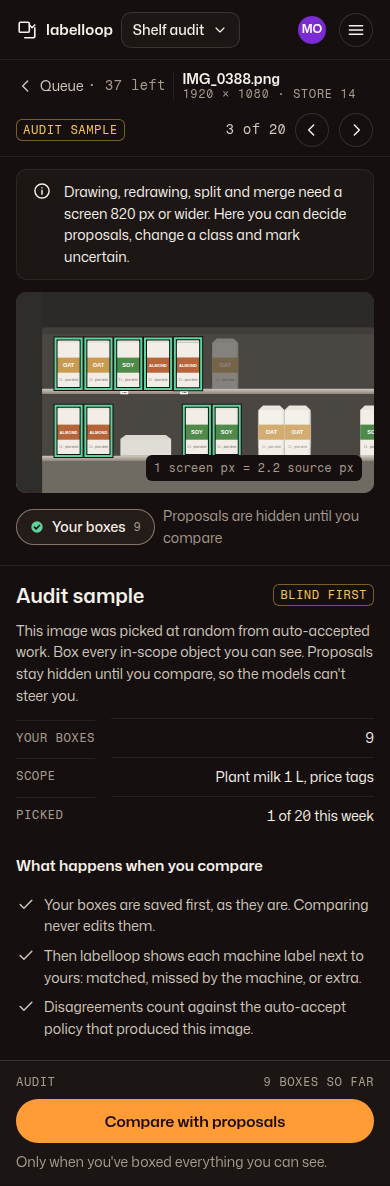
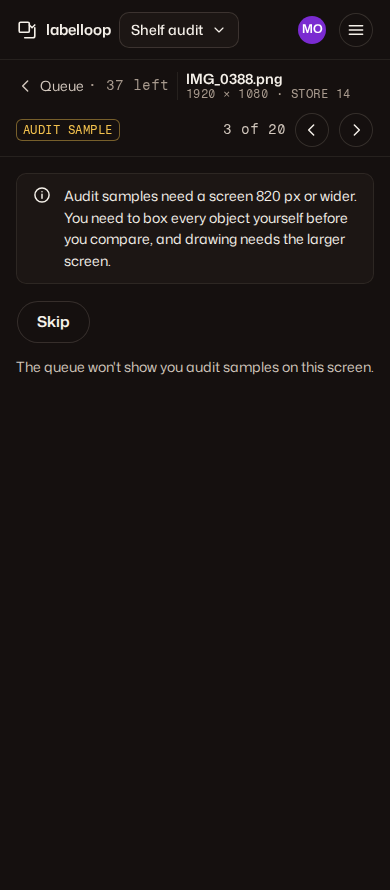
docs(design): estimate wording, audit below 820 px, paused header
- J20 on Runs and the Costs policy copy name the estimate, never a cap,
  and say which limits are enforced (plan §12.1).
- Audit samples are never served below 820 px; R3 at 390 shows the
  notice and Skip only (spec §3, §7, check 6).
- J1 paused variant ("Paid steps paused") on the Costs mockup.
- Reviewed box tabs show the check glyph, not a dot.
- fetch-fonts.sh is executable.

diff --git a/docs/design/mockups/src/workbench.css b/docs/design/mockups/src/workbench.css
@@ -337,6 +337,15 @@ nav.sections .count {
 .spend .meter {
   width: 48px;
 }
+/* J1 paused variant: replaces the meter on every page while paid steps are paused. */
+.spend.paused {
+  color: var(--two-color-state-danger);
+  font-weight: 600;
+}
+.spend.paused svg {
+  width: 16px;
+  height: 16px;
+}
 .who {
   display: inline-flex;
   align-items: center;
@@ -642,6 +651,10 @@ nav.sections .count {
 .btab.reviewed .id,
 .btab.reviewed .pg {
   color: var(--two-color-bg-canvas);
+}
+/* The check glyph's mark is drawn in the canvas colour; on the filled tab it takes the tier colour so it reads as a check, not a dot. */
+.btab.reviewed .pg path {
+  stroke: var(--two-color-label-reviewed);
 }
 .btab.sel {
   outline: 2px solid var(--two-color-focus-ring);
@@ -1551,6 +1564,18 @@ tr.hl {
 }
 .only-m {
   display: none;
+}
+/* R3 below 820 px: audit samples are not served; only the note and Skip. */
+.audit-narrow {
+  flex-direction: column;
+  gap: var(--two-space-4);
+  padding: var(--two-space-4);
+}
+.audit-narrow .row {
+  display: flex;
+  align-items: center;
+  gap: var(--two-space-3);
+  flex-wrap: wrap;
 }
 @media (max-width: 820px) {
   .only-m {

diff --git a/docs/design/screens/01-image-review.md b/docs/design/screens/01-image-review.md
@@ -60,6 +60,8 @@ The stage and inspector scroll independently. The image well never scrolls out o
 
 Order: header (compact) · tool row (queue link, file name, position, previous / next) · **note** "Drawing, redrawing, split and merge need a screen 820 px or wider. Here you can decide proposals, change a class and mark uncertain." · image well (only the selected box keeps its tab) · legend (scrolls sideways) · crop strip · inspector · the decision dock as a fixed bottom bar (B4 behaviour; the mockup shows it at the end of the page because full-page captures can't show fixed bars).
 
+**Audit samples are never served below 820 px.** At 390 the queue skips them (they stay in the queue for a wider screen). An audit sample opened by link shows the tool row, then only the info notice "Audit samples need a screen 820 px or wider. You need to box every object yourself before you compare, and drawing needs the larger screen." with the dock's Skip; no image, no proposals and no "Compare with proposals" (mockup R3 at 390).
+
 At 390 a reviewer can: select objects (tap a tile or a box), accept or keep a proposal, change a class, mark uncertain, delete a box, confirm auto-accepted boxes, accept or skip the image. Drawing tools and handles are not rendered.
 
 ## 4. Inspector content
@@ -144,6 +146,7 @@ Single-key shortcuts work when no text field has focus, and can be turned off in
 | Queue empty | P6 page instead of P7, C3 empty state. | "Nothing to review. 1,240 images are reviewed or auto-accepted." · ghost "Open the adjudication queue" |
 | Nothing to decide on arrival | R4 straight away (all auto-accepted or reviewed). | "Nothing here needs a decision. Check the image is complete, then accept it." |
 | Audit sample (R3) | Tool row shows the warn tag "Audit sample"; the overlay shows only the reviewer's own boxes; the legend is "Your boxes 9"; the inspector explains the rule; the dock primary is "Compare with proposals". After comparing, every machine box is paired with the reviewer's: matched, missed by the machine, extra; disagreements are recorded against the auto-accept policy (plan §10.2, §11.5). | "This image was picked at random from auto-accepted work. Box every in-scope object you can see. Proposals stay hidden until you compare, so the models can't steer you." |
+| Audit sample below 820 px (R3 at 390) | The queue never serves an audit sample here. Opened by link: tool row with the "Audit sample" tag, an info notice, and the dock with Skip only. No canvas, no machine boxes, no Compare. | "Audit samples need a screen 820 px or wider. You need to box every object yourself before you compare, and drawing needs the larger screen." · ghost "Skip" |
 | Stale proposal | J8 stale state: only Keep or Mark uncertain. | "This proposal was made on revision 4; the box has changed since." |
 | Someone else changed the image | Warn notice at the top of the inspector, dock primary unavailable until resolved. The reviewer's decisions are kept as a draft. | "Ade changed this image at 01:20 while you were reviewing. Your 3 decisions are saved as a draft." · ghost "See Ade's changes" · ghost "Reapply mine" |
 | Save failed | Danger notice in the inspector (`role="alert"`, it's the reviewer's own action); the decision stays on screen as unsaved. | "That decision didn't save. Try again. Nothing else changed." · ghost "Try again" |
@@ -183,7 +186,7 @@ One request for the review view of an image returns: source image URL and dimens
 3. Accepting an image with auto-accepted boxes leaves them auto-accepted.
 4. "Accept image" is unavailable while any proposal is undecided, and says why.
 5. Every decision works by keyboard alone, including adding and redrawing a box.
-6. An audit-sample image shows no machine boxes until "Compare with proposals".
+6. An audit-sample image shows no machine boxes until "Compare with proposals". Below 820 px the queue skips audit samples, and one opened by link shows only the notice and Skip.
 7. A concurrent edit by someone else blocks Accept and keeps the reviewer's decisions as a draft.
 8. Model reason text renders as plain text (no HTML, no links).
 9. axe: 0 violations at 1280 and 390; keyboard pass written in the PR (kit AGENTS.md §4).

diff --git a/docs/design/screens/05-training-runs.md b/docs/design/screens/05-training-runs.md
@@ -6,7 +6,7 @@
 
 ## Job and primary action
 
-An admin starts a run for a release and recipe, follows it, and sees whether the run can be trusted. **Primary action:** "Start a run" (opens J20 in place; while open, the J20 button "Spend up to $1.38 and start" is the one ember surface and "Start a run" turns ghost). Local runs have no spend; their confirm reads "Start run on this server".
+An admin starts a run for a release and recipe, follows it, and sees whether the run can be trusted. **Primary action:** "Start a run" (opens J20 in place; while open, the J20 button "Start · estimate $1.38" is the one ember surface and "Start a run" turns ghost). Local runs have no spend; their confirm reads "Start run on this server".
 
 ## Layout
 
@@ -14,7 +14,7 @@ An admin starts a run for a release and recipe, follows it, and sees whether the
 
 ## The start panel (J20)
 
-Fields: release, recipe (one run per recipe; two recipes = two runs), backend, base model with hash, GPU (Platform: always explicit, with availability), epochs, image count. Estimate tile with "Estimate" tag, price basis and billing rule. Month total after the run and the per-run limit. Over any limit: no primary; danger notice names the limit with a link to Costs (plan §12.1). With "Spend without asking" on, the panel still shows and starts on one click inside limits.
+Fields: release, recipe (one run per recipe; two recipes = two runs), backend, base model with hash, GPU (Platform: always explicit, with availability), epochs, image count. Estimate tile with "Estimate" tag, price basis and billing rule. Month total after the run and the per-run limit. Ceiling line: "The run won't start if its estimate is over $5 per operation or your $40 monthly limit. Time-based billing can come in above the estimate; the actual shows as unconfirmed until the bill is matched to this run." The button names the estimate, never a cap (kit J20). Over any limit: no primary; danger notice names the limit with a link to Costs (plan §12.1). With "Spend without asking" on, the panel still shows and starts on one click inside limits.
 
 ## Run detail
 

diff --git a/docs/design/README.md b/docs/design/README.md
@@ -27,7 +27,7 @@ Each mockup has `mockups/png/<name>-1280.png` (1280 × 800 viewport) and `<name>
 
 1. **Provenance is always visible.** Anything a model made or judged says so in words, wherever it appears: on a box, in a table, in history, in a count. Proposed, auto-accepted and reviewed never share a look (kit components.md §J, the provenance table). Only a person reviews; a model proposes or auto-accepts.
 2. **One ember surface per view.** It is the page's primary action. Accepting a model's proposal is never the ember action.
-3. **Money and spend:** nothing paid starts from one click. J20 shows the estimate, and the button names the amount. When paid steps are paused, every page's header says so.
+3. **Money and spend:** nothing paid starts from one click. J20 shows the estimate, the button names it ("Start · estimate $1.38") and a line says which limits are enforced; an estimate is never worded as a cap. When paid steps are paused, every page's header says so (J1 paused variant: "Paid steps paused" in `state.danger` in place of the meter, on the Costs mockup).
 4. **Secrets:** only J18 fingerprints, ever.
 5. **Honest numbers:** a metric names its set and size; estimates say "Estimate"; unsupported classes show the reason, never a number.
 6. **Times:** UTC in tables and audit (labelled), viewer-local with the zone in sentences.

diff --git a/docs/design/screens/09-costs.md b/docs/design/screens/09-costs.md
@@ -20,7 +20,7 @@ J13 table, newest first: UTC time, operation (kind · object · recipe), approve
 
 - A12 "Spend without asking", default off. Consequence line: "Off: every paid step waits for a person to approve its estimate. On: steps run inside the limits below, and each one still writes its estimate first."
 - Limits: monthly, per iteration, per operation (required before any paid operation; empty = paid steps unavailable with "Set a monthly limit first"). Help: "An operation over any limit is refused, never queued."
-- Turning the switch on confirms in place and names the limits: "labelloop may spend up to $40 this month without asking, at most $5 per operation. *Turn on* · Cancel".
+- Turning the switch on confirms in place and names the limits: "labelloop starts paid steps without asking while their estimates fit $40 this month and $5 per operation. Actual billing can come in above an estimate. *Turn on* · Cancel". The limits are checked against estimates, so the copy never calls them a cap on what is billed (plan §12.1).
 
 ## States
 
